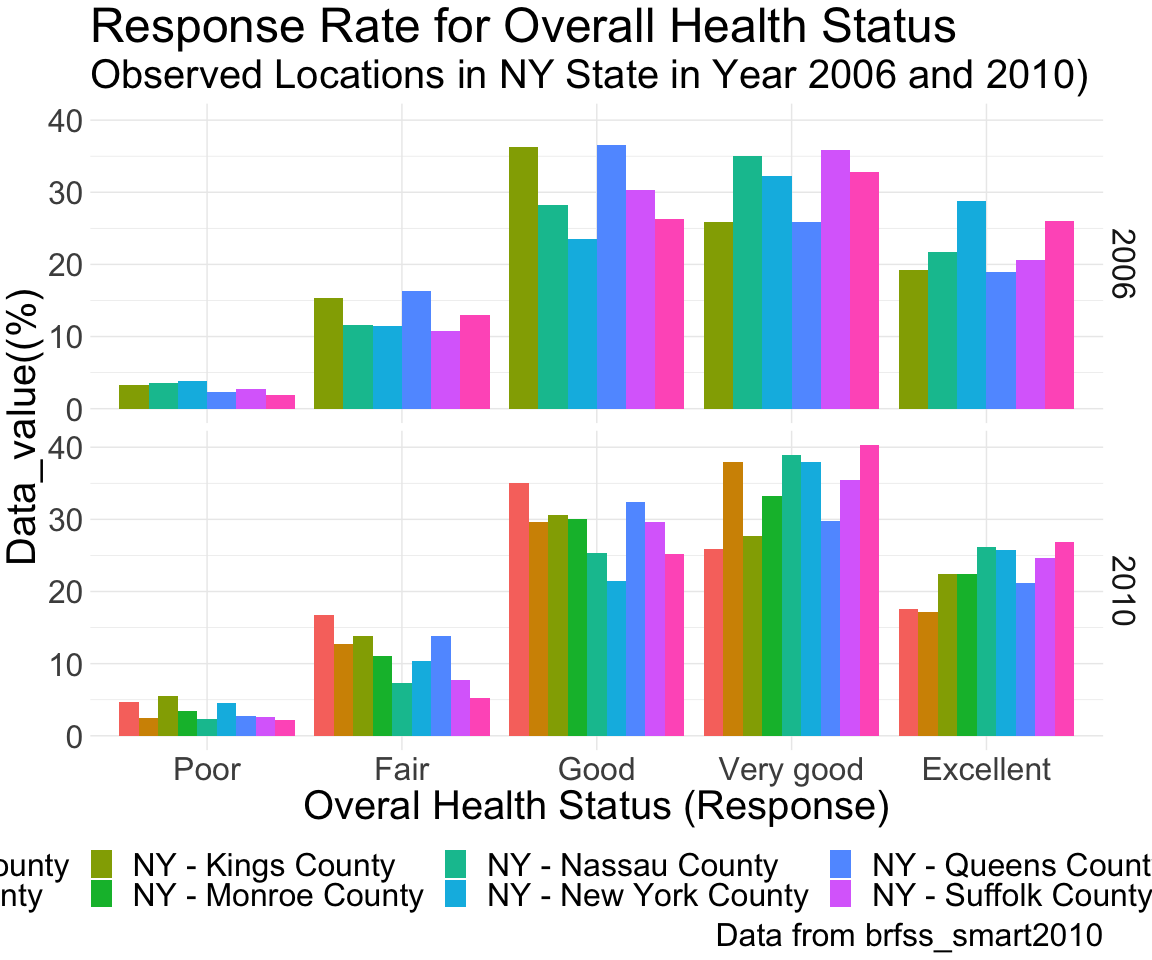
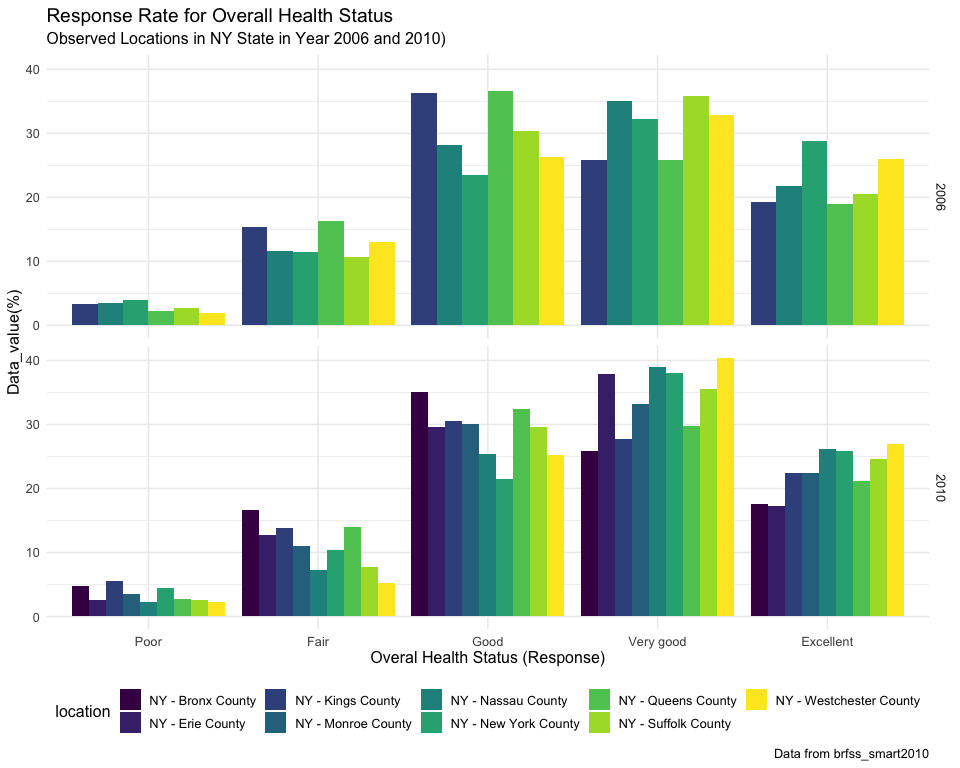
Finished hw3. Needs to change label for the aisle ID

diff --git a/P8105_hw3_yc384.md b/P8105_hw3_yc384.md
@@ -33,14 +33,14 @@ setwd(“/Users/macbook/Documents/Statistics/P8105/HW/P8105\_HW3\_yc384”)
 library (tidyverse)
 ```
 
-    ## ── Attaching packages ─────────────────────────────────────── tidyverse 1.2.1 ──
+    ## ── Attaching packages ──────────────────────────────────────── tidyverse 1.2.1 ──
 
     ## ✔ ggplot2 3.2.1     ✔ purrr   0.3.2
     ## ✔ tibble  2.1.3     ✔ dplyr   0.8.3
     ## ✔ tidyr   1.0.0     ✔ stringr 1.4.0
     ## ✔ readr   1.3.1     ✔ forcats 0.4.0
 
-    ## ── Conflicts ────────────────────────────────────────── tidyverse_conflicts() ──
+    ## ── Conflicts ─────────────────────────────────────────── tidyverse_conflicts() ──
     ## ✖ dplyr::filter() masks stats::filter()
     ## ✖ dplyr::lag()    masks stats::lag()
 
@@ -57,10 +57,14 @@ rm(list = ls())
 knitr::opts_chunk$set(
     echo = TRUE,
     warning = FALSE,
-    fig.width = 12, 
-  fig.height = 10,
+    fig.width = 10, 
+  fig.height = 8,
   out.width = "100%"
 )
+
+scale_colour_discrete = scale_colour_viridis_d
+scale_fill_discrete = scale_fill_viridis_d
+
 options(
   ggplot2.continuous.colour = "viridis",
   ggplot2.continuous.fill = "viridis"
@@ -391,26 +395,6 @@ summary(brfss_smart2010)
     ##                                       
     ## 
 
-``` r
-head(brfss_smart2010)
-```
-
-    ## # A tibble: 6 x 23
-    ##    Year Locationabbr Locationdesc Class Topic Question Response Sample_Size
-    ##   <int> <chr>        <chr>        <chr> <chr> <chr>    <chr>          <int>
-    ## 1  2010 AL           AL - Jeffer… Heal… Over… How is … Excelle…          94
-    ## 2  2010 AL           AL - Jeffer… Heal… Over… How is … Very go…         148
-    ## 3  2010 AL           AL - Jeffer… Heal… Over… How is … Good             208
-    ## 4  2010 AL           AL - Jeffer… Heal… Over… How is … Fair             107
-    ## 5  2010 AL           AL - Jeffer… Heal… Over… How is … Poor              45
-    ## 6  2010 AL           AL - Jeffer… Heal… Fair… Health … Good or…         450
-    ## # … with 15 more variables: Data_value <dbl>, Confidence_limit_Low <dbl>,
-    ## #   Confidence_limit_High <dbl>, Display_order <int>,
-    ## #   Data_value_unit <chr>, Data_value_type <chr>,
-    ## #   Data_Value_Footnote_Symbol <chr>, Data_Value_Footnote <chr>,
-    ## #   DataSource <chr>, ClassId <chr>, TopicId <chr>, LocationID <chr>,
-    ## #   QuestionID <chr>, RESPID <chr>, GeoLocation <chr>
-
 From above summary, we can see that there are many varaibles that have
 very long names and names for location difficult to know exact meaning.
 We will rename some of the varaibles in the code chunck
@@ -561,7 +545,8 @@ mean %>%
   group_by(state) %>% 
   ggplot ()+
   geom_line((aes(x = year, y = mean, group = state, color = state)))+
-  ggtitle("Spaghetti Plot: Mean value of each state across years")
+  ggtitle("Spaghetti Plot: Mean value of each state across years") +
+  theme(text = element_text(size=20))
 ```
 
 <img src="P8105_hw3_yc384_files/figure-gfm/spaghetti-1.png" width="100%" />
@@ -592,10 +577,10 @@ labs(
     title = "Response Rate for Overall Health Status",
       subtitle = "Observed Locations in NY State in Year 2006 and 2010)",
       x = "Overal Health Status (Response)",
-      y = "Data_value((%)",
+      y = "Data_value(%)",
       caption = "Data from brfss_smart2010"
   )+
-theme(text = element_text(size=30))
+theme(text = element_text(size=12))
 ```
 
 <img src="P8105_hw3_yc384_files/figure-gfm/ny-1.png" width="100%" />
@@ -628,53 +613,6 @@ accel_data =
     ## See spec(...) for full column specifications.
 
 ``` r
-head(accel_data, 5)
-```
-
-    ## # A tibble: 5 x 1,443
-    ##    week day_id day   activity_1 activity_2 activity_3 activity_4 activity_5
-    ##   <dbl>  <dbl> <chr>      <dbl>      <dbl>      <dbl>      <dbl>      <dbl>
-    ## 1     1      1 Frid…       88.4       82.2       64.4       70.0       75.0
-    ## 2     1      2 Mond…        1          1          1          1          1  
-    ## 3     1      3 Satu…        1          1          1          1          1  
-    ## 4     1      4 Sund…        1          1          1          1          1  
-    ## 5     1      5 Thur…       47.4       48.8       46.9       35.8       49.0
-    ## # … with 1,435 more variables: activity_6 <dbl>, activity_7 <dbl>,
-    ## #   activity_8 <dbl>, activity_9 <dbl>, activity_10 <dbl>,
-    ## #   activity_11 <dbl>, activity_12 <dbl>, activity_13 <dbl>,
-    ## #   activity_14 <dbl>, activity_15 <dbl>, activity_16 <dbl>,
-    ## #   activity_17 <dbl>, activity_18 <dbl>, activity_19 <dbl>,
-    ## #   activity_20 <dbl>, activity_21 <dbl>, activity_22 <dbl>,
-    ## #   activity_23 <dbl>, activity_24 <dbl>, activity_25 <dbl>,
-    ## #   activity_26 <dbl>, activity_27 <dbl>, activity_28 <dbl>,
-    ## #   activity_29 <dbl>, activity_30 <dbl>, activity_31 <dbl>,
-    ## #   activity_32 <dbl>, activity_33 <dbl>, activity_34 <dbl>,
-    ## #   activity_35 <dbl>, activity_36 <dbl>, activity_37 <dbl>,
-    ## #   activity_38 <dbl>, activity_39 <dbl>, activity_40 <dbl>,
-    ## #   activity_41 <dbl>, activity_42 <dbl>, activity_43 <dbl>,
-    ## #   activity_44 <dbl>, activity_45 <dbl>, activity_46 <dbl>,
-    ## #   activity_47 <dbl>, activity_48 <dbl>, activity_49 <dbl>,
-    ## #   activity_50 <dbl>, activity_51 <dbl>, activity_52 <dbl>,
-    ## #   activity_53 <dbl>, activity_54 <dbl>, activity_55 <dbl>,
-    ## #   activity_56 <dbl>, activity_57 <dbl>, activity_58 <dbl>,
-    ## #   activity_59 <dbl>, activity_60 <dbl>, activity_61 <dbl>,
-    ## #   activity_62 <dbl>, activity_63 <dbl>, activity_64 <dbl>,
-    ## #   activity_65 <dbl>, activity_66 <dbl>, activity_67 <dbl>,
-    ## #   activity_68 <dbl>, activity_69 <dbl>, activity_70 <dbl>,
-    ## #   activity_71 <dbl>, activity_72 <dbl>, activity_73 <dbl>,
-    ## #   activity_74 <dbl>, activity_75 <dbl>, activity_76 <dbl>,
-    ## #   activity_77 <dbl>, activity_78 <dbl>, activity_79 <dbl>,
-    ## #   activity_80 <dbl>, activity_81 <dbl>, activity_82 <dbl>,
-    ## #   activity_83 <dbl>, activity_84 <dbl>, activity_85 <dbl>,
-    ## #   activity_86 <dbl>, activity_87 <dbl>, activity_88 <dbl>,
-    ## #   activity_89 <dbl>, activity_90 <dbl>, activity_91 <dbl>,
-    ## #   activity_92 <dbl>, activity_93 <dbl>, activity_94 <dbl>,
-    ## #   activity_95 <dbl>, activity_96 <dbl>, activity_97 <dbl>,
-    ## #   activity_98 <dbl>, activity_99 <dbl>, activity_100 <dbl>,
-    ## #   activity_101 <dbl>, activity_102 <dbl>, activity_103 <dbl>,
-    ## #   activity_104 <dbl>, activity_105 <dbl>, …
-
-``` r
 # tidy data
 accel = 
   accel_data %>% 
@@ -698,18 +636,7 @@ accel =
            day != "Sunday" | day != "Saturday" ~ "No"),
      weekend = factor(weekend) 
     ) 
-
-head(accel, 5)
 ```
-
-    ## # A tibble: 5 x 7
-    ##   week  day_id day    minute count  hour weekend
-    ##   <fct>  <dbl> <fct>   <dbl> <dbl> <int> <fct>  
-    ## 1 1          1 Friday      1  88.4     0 No     
-    ## 2 1          1 Friday      2  82.2     0 No     
-    ## 3 1          1 Friday      3  64.4     0 No     
-    ## 4 1          1 Friday      4  70.0     0 No     
-    ## 5 1          1 Friday      5  75.0     0 No
 
 #### 3-1-2 Describe the resulting dataset (e.g. what variables exist, how many observations, etc)
 
@@ -734,7 +661,7 @@ summary(accel)
     ##  Max.   :24.00              
     ## 
 
-AFter tidy the dataset, the clean dataset now contains `r nrow(accel)`
+After tidy the dataset, the clean dataset now contains `r nrow(accel)`
 rows and `r ncol(accel)` varaibles. From the summary, we can see week
 has value from 1 to 5, which are the weeks that the patient was followed
 up with. Day\_id is the index for the number of days the patient was
@@ -749,20 +676,33 @@ weekend.
 #### 3-2-1 Using your tidied dataset, aggregate accross minutes to create a total activity variable for each day, and create a table showing these totals. Are any trends apparent?
 
 ``` r
-total = 
   accel %>% 
-    group_by(week, weekend, day) %>% 
+    mutate(
+      day = ordered(day, levels=c("Sunday", "Monday", "Tuesday", "Wednesday", "Thursday", 
+                          "Friday", "Saturday")) 
+    )%>% 
+    group_by(week, day) %>% 
     summarize(total = sum(count)) %>% 
-    arrange(weekend, day) %>% 
-    select(week, weekend, day, total) %>% 
+    arrange(day) %>% 
+    select(week, day, total) %>% 
     pivot_wider(names_from = day,                            
                 values_from = total
               ) %>%        
- knitr::kable(caption = "Total activities for each day")
+   knitr::kable(caption = "Total activities for each day", grid = TRUE)
 ```
 
+| week | Sunday |    Monday |  Tuesday | Wednesday | Thursday |   Friday | Saturday |
+| :--- | -----: | --------: | -------: | --------: | -------: | -------: | -------: |
+| 1    | 631105 |  78828.07 | 307094.2 |    340115 | 355923.6 | 480542.6 |   376254 |
+| 2    | 422018 | 295431.00 | 423245.0 |    440962 | 474048.0 | 568839.0 |   607175 |
+| 3    | 467052 | 685910.00 | 381507.0 |    468869 | 371230.0 | 467420.0 |   382928 |
+| 4    | 260617 | 409450.00 | 319568.0 |    434460 | 340291.0 | 154049.0 |     1440 |
+| 5    | 138421 | 389080.00 | 367824.0 |    445366 | 549658.0 | 620860.0 |     1440 |
+
+Total activities for each day
+
 **Answer** From the table above, we can see that the patient’s activty
-level is higher during weekdays than on weekends. Starting from the 4th
+level was higher during weekdays than on weekends. Starting from the 4th
 week, patient’s activities dropped significantly on Saturdays,
 suggesting that only minimus movement was detected. This could be either
 due to not wearing the tracking devices or patient was hospitalized due
@@ -771,4 +711,41 @@ failure.
 
 #### 3-2-2 Make a single-panel plot that shows the 24-hour activity time courses for each day and use color to indicate day of the week.
 
+``` r
+accel %>% 
+  mutate(
+      day = ordered(day, levels=c("Sunday", "Monday", "Tuesday", "Wednesday", "Thursday", 
+                          "Friday", "Saturday")) 
+  )%>% 
+    group_by(week, day, hour, minute) %>% 
+    summarize(total = sum(count)) %>% 
+    arrange(week, day, minute) %>% 
+    select(week, day, minute, hour, total) %>% 
+  ggplot(aes(x = (minute/60), y = total, color = day)) + 
+  geom_point(size = 2, alpha = .6) +
+  scale_x_discrete(limits = 0:24) + 
+  labs(
+    title = "24-hour Activity ScatterPlot",
+      subtitle = "By day of the Week)",
+      x = "Hour in a Day",
+      y = "Activity Count",
+      caption = "Data from accel_data"
+  )+
+theme(text = element_text(size=20))
+```
+
+<img src="P8105_hw3_yc384_files/figure-gfm/unnamed-chunk-10-1.png" width="100%" />
+
 #### 3-2-3 Describe in words any patterns or conclusions you can make based on this graph.
+
+**Answer** Based on the above graph, we can see that the patient’s
+activity starts increasing around 6am in the morning and maintained the
+same thoughout the day. It increases dramatically from 8pm to 9pm and
+starts quiet down after 10pm. When looking closer, we can see that every
+Thursday morning around 7am, patient has hight activity counts than the
+rest of the week. This patient also has more activities on weekends in
+the evening time between 7 - 10 pm. Once for a while, patient had higher
+activity level Saturday afternoon between 4-5pm. We also can see a
+straight line on the bottom of the graph suggesting no activities at all
+for Saturdays. Those might be the days that patient forgot to wear his
+accelerometer.
